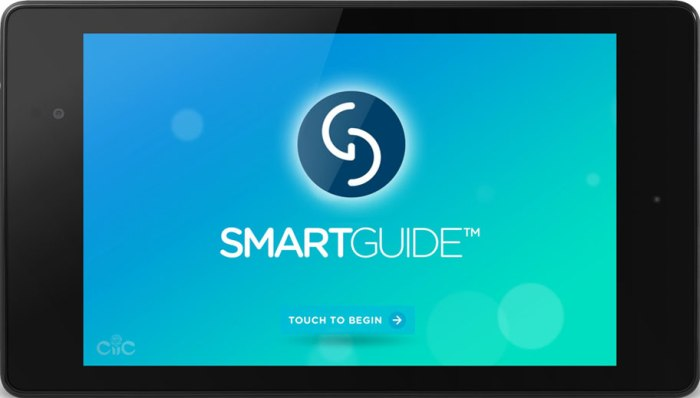
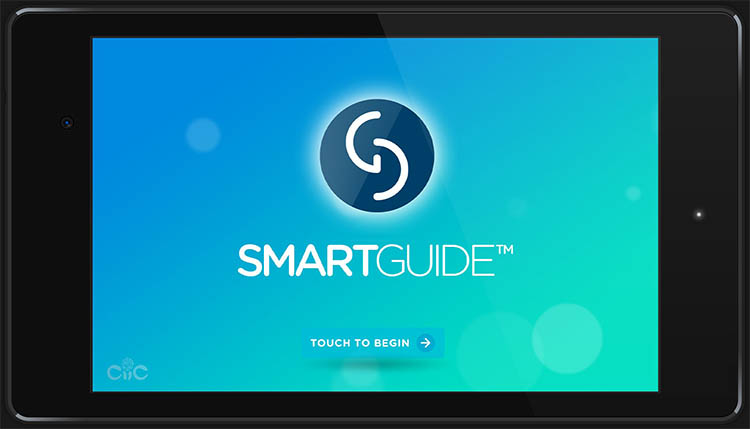
Added Heineken Project. Centered galleries. Fixed gallery projects not opening with direct link.

diff --git a/index.html b/index.html
@@ -228,7 +228,7 @@
 							<p> 2008 - Current </p>
 		        </div>
 		        <div class="timeline-body">
-		          <p>Cofounded Nerdiacs in 2008 as a game development company and shipped 2 titles for mobile devices (Android, iOS and Symbian) with me being the sole programmer for both the titles. Pivoted the company to experiential marketing and created tech solutions for major brands like Unilever and Samsung. In the 8 years of running a company the last 4 years have involved management experience such as hiring, training and leading a team of 5 developers and negotiating budgets with end clients.</p>
+		          <p>Cofounded Nerdiacs in 2008 as a game development company and shipped 2 titles for mobile devices (Android, iOS and Symbian) with me being the sole programmer for both the titles. Pivoted the company to experiential marketing and created tech solutions for major brands like Unilever and Samsung. In the 8 years of running a company the last 4 years have involved management experience such as hiring, training and leading a team of 6 developers and negotiating budgets with end clients.</p>
 		        </div>
 		      </div>
 		    </li>
@@ -414,13 +414,13 @@
 							<h4 class="modal-title" id="project-8-label">Project Title</h4>
 						</div>
 						<div class="modal-body">
-
+							<h4 class="text-center"> Unity 3D - Windows - Mac </h4>
 							<div id="freezer_carousel" class="carousel slide" data-ride="carousel">
 							  <!-- Indicators -->
 							  <ol class="carousel-indicators">
 							    <li data-target="#freezer_carousel" data-slide-to="0"></li>
 							    <li data-target="#freezer_carousel" data-slide-to="1"></li>
-							    <li data-target="#freezer_carouselfreezer_carousel" data-slide-to="2"></li>
+							    <li data-target="#freezer_carousel" data-slide-to="2"></li>
 							    <li data-target="#freezer_carousel" data-slide-to="3"></li>
 							    <li data-target="#freezer_carousel" data-slide-to="4"></li>
 							  </ol>
@@ -468,6 +468,89 @@
 									<ul class="list-unstyled">
 										<li><i class="fa fa-caret-right pr-10 text-colored"></i> Mapped 3d meshes with images to fake perspective in animations  </li>
 										<li><i class="fa fa-caret-right pr-10 text-colored"></i> Created using 3d planes for custom shaders </li>
+										<li><i class="fa fa-caret-right pr-10 text-colored"></i> Developed entire project in 2 weeks </li>
+									</ul>
+						    </div>
+						  </div>
+						</div>
+						<div class="modal-footer">
+							<button type="button" class="btn btn-sm btn-default" data-dismiss="modal">Close</button>
+						</div>
+					</div>
+				</div>
+			</div>
+			<!-- Modal end -->
+
+
+			<!-- Modal -->
+			<div class="modal fade" id="heineken_spinoff" tabindex="-1" role="dialog" aria-labelledby="project-8-label" aria-hidden="true">
+				<div class="modal-dialog modal-lg">
+					<div class="modal-content">
+						<div class="modal-header">
+							<button type="button" class="close" data-dismiss="modal"><span aria-hidden="true">&times;</span><span class="sr-only">Close</span></button>
+							<h4 class="modal-title" id="project-8-label">Project Title</h4>
+						</div>
+						<div class="modal-body">
+							<h4 class="text-center"> Android (Java) - Arduino </h4>
+							<div id="heineken_carousel" class="carousel slide" data-ride="carousel">
+							  <!-- Indicators -->
+							  <ol class="carousel-indicators">
+							    <li data-target="#heineken_carousel" data-slide-to="0"></li>
+							    <li data-target="#heineken_carousel" data-slide-to="1"></li>
+							    <li data-target="#heineken_carousel" data-slide-to="2"></li>
+							    <li data-target="#heineken_carousel" data-slide-to="3"></li>
+							    <li data-target="#heineken_carousel" data-slide-to="4"></li>
+									<li data-target="#heineken_carousel" data-slide-to="5"></li>
+							  </ol>
+
+							  <!-- Wrapper for slides -->
+							  <div class="carousel-inner" role="listbox">
+							    <div class="item">
+							        <img data-img-src="images/heineken/1.jpg" data-color="white" alt="First Image" class="max-width:100%; max-height:100%;">
+							    </div>
+							    <div class="item">
+							        <img data-img-src="images/heineken/2.jpg" data-color="white" alt="Second Image" class="max-width:100%; max-height:100%;">
+							    </div>
+							    <div class="item">
+							        <img data-img-src="images/heineken/3.jpg" data-color="white" alt="Third Image" class="max-width:100%; max-height:100%;">
+							    </div>
+							    <div class="item">
+							        <img data-img-src="images/heineken/4.jpg" data-color="white" alt="Fourth Image" class="max-width:100%; max-height:100%;">
+							    </div>
+							    <div class="item">
+							        <img data-img-src="images/heineken/5.jpg" data-color="white" alt="Fifth Image" class="max-width:100%; max-height:100%;">
+							    </div>
+									<div class="item">
+							        <img data-img-src="images/heineken/6.jpg" data-color="white" alt="Fifth Image" class="max-width:100%; max-height:100%;">
+							    </div>
+							  </div>
+
+							  <!-- Controls -->
+							  <a class="left carousel-control" href="#heineken_carousel" role="button" data-slide="prev">
+							    <span class="glyphicon glyphicon-chevron-left" aria-hidden="true"></span>
+							    <span class="sr-only">Previous</span>
+							  </a>
+							  <a class="right carousel-control" href="#heineken_carousel" role="button" data-slide="next">
+							    <span class="glyphicon glyphicon-chevron-right" aria-hidden="true"></span>
+							    <span class="sr-only">Next</span>
+							  </a>
+							</div>
+
+							<div class="row">
+								<br/>
+						    <div class="col-md-6">
+									<ul class="list-unstyled">
+							      <li><i class="fa fa-caret-right pr-10 text-colored"></i> Sole Programmer responsible for end to end development </li>
+										<li><i class="fa fa-caret-right pr-10 text-colored"></i> Built 2 different applications for tablet and phone. </li>
+										<li><i class="fa fa-caret-right pr-10 text-colored"></i> Custom spinner component built with Paint API </li>
+										<li><i class="fa fa-caret-right pr-10 text-colored"></i> UDP Broadcast discovery between tablet and phone </li>
+									</ul>
+						    </div>
+						    <div class="col-md-6">
+									<ul class="list-unstyled">
+										<li><i class="fa fa-caret-right pr-10 text-colored"></i> Tablet arduino connection via OTG cable </li>
+										<li><i class="fa fa-caret-right pr-10 text-colored"></i> Custom Arduino code connected to flow meter </li>
+										<li><i class="fa fa-caret-right pr-10 text-colored"></i> iBeacon service in background to detect proximity from tablet </li>
 										<li><i class="fa fa-caret-right pr-10 text-colored"></i> Developed entire project in 2 weeks </li>
 									</ul>
 						    </div>

diff --git a/js/custom.js b/js/custom.js
@@ -28,6 +28,7 @@ var Projects = [
   { title:"ABC - Future of VR",             id:"abc_vr_demo", categories: [Categories.VR] },
   { title:"Accenture Grabber",              id:"accenture_grabber", categories: [Categories.MobileApp] },
   { title:"Smart Guide",                    id:"smart_guide", categories: [Categories.MobileApp] },
+  { title:"Heineken - Spinoff",             id:"heineken_spinoff", categories: [Categories.MobileApp] },
   { title:"Unilever - Interactive Table",   id:"interactive_table", categories: [Categories.Unity] },
   { title:"Unilever - Street Window",       id:"street_window", categories: [Categories.Unity] },
   { title:"Unilever - Aisle Leader",        id:"aisle_leader", categories: [Categories.Unity] },
@@ -81,8 +82,23 @@ for (var i=0;i<Projects.length;i++) {
 }
 
 $('body').on("show.bs.modal", function(e) {
+      console.log("Show Modal");
+
       var link = $(e.relatedTarget);
-      var body = $(this).find(link.attr('data-target')).find(".modal-body");
+      var modalLink = null;
+
+      if (link.length == 0) {
+        console.log("No link!");
+
+        modalLink = $(location.hash);
+      } else {
+        modalLink = $(this).find(link.attr('data-target'));
+      }
+
+      console.log(link.get());
+
+      var body = modalLink.find(".modal-body");
+      console.log($(this).get());
 
       if (body.find('video')[0] != null) {
         body.find('video')[0].play();
@@ -91,7 +107,11 @@ $('body').on("show.bs.modal", function(e) {
       // Asynchrous load images in carousel
       var carousel = body.find('.carousel-inner');
       if (carousel) {
+        console.log(carousel);
+        console.log(carousel.find(".item"));
+        console.log("Found carousel. " + carousel.length + " " + carousel.find(".item").length);
         carousel.find(".item").find("img").each(function(numb,val) {
+          console.log("Setting image " + $(this).attr('data-img-src'));
             $(this).attr('src', $(this).attr('data-img-src'));
         });
       }
@@ -124,8 +144,6 @@ $('body').on('hidden.bs.modal', '.modal', function () {
 $('.carousel').each(function() {
   var carouselID = $(this).attr('id');
 
-  console.log("Carousel - " + carouselID );
-
   var ratio = '56.25%';
 
   if (carouselID == 'freezer_carousel') {
@@ -134,9 +152,9 @@ $('.carousel').each(function() {
     ratio = '56.34%';
   } else if (carouselID == 'smartguide_carousel') {
     ratio = '56.91%';
+  } else if (carouselID == 'heineken_carousel') {
+    ratio = '57.2%'
   }
-
-  console.log("Ratop - " + ratio);
 
 /*  $(this).find('.carousel .item').each(function() {
     console.log("Setting Carousel");
@@ -198,12 +216,11 @@ function submitContactForm() {
    });
 }
 
-$( document ).ready(function() {
+$(document).ready(function() {
     var hash = location.hash;
 
     if (hash) {
-      var hashID = hash.substr(1);
-
+        var hashID = hash.substr(1);
         $('#' + hashID).modal('show');
     }
 });

diff --git a/bootstrap/css/bootstrap.css b/bootstrap/css/bootstrap.css
@@ -942,6 +942,7 @@ img {
   display: block;
   max-width: 100%;
   height: auto;
+  margin: auto;
 }
 .img-rounded {
   border-radius: 6px;
